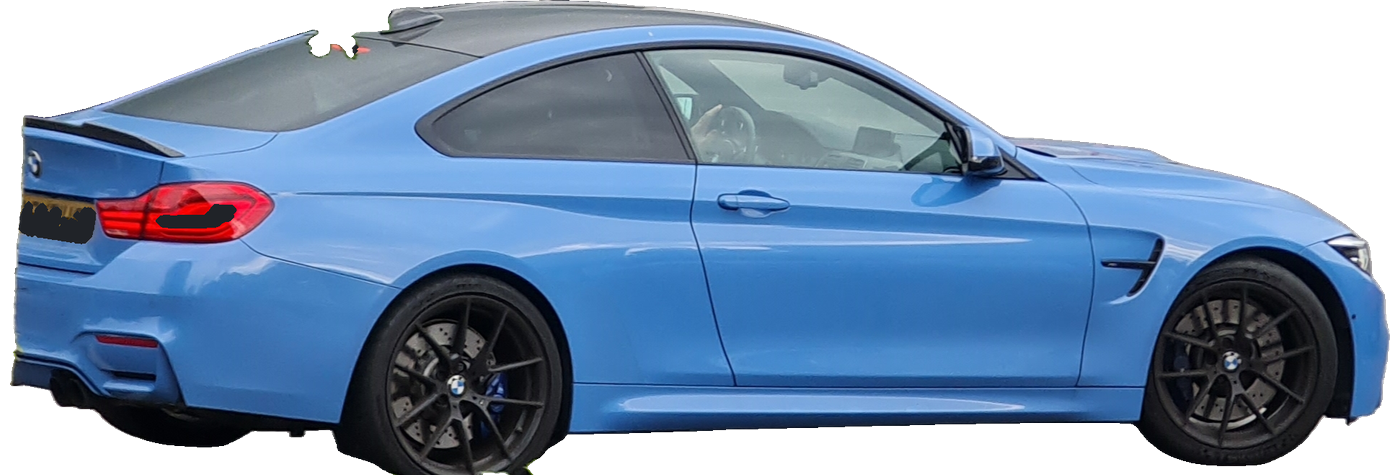
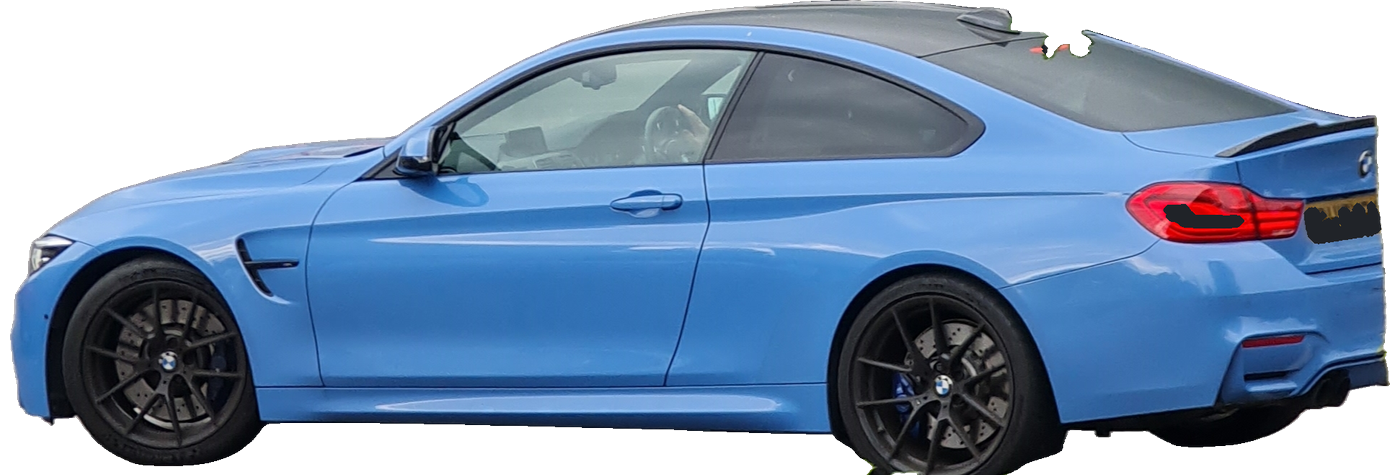
fix(garage): purge synthetic recolor artifacts, serve authentic BiRefNet cutouts, and add smart heading detection

diff --git a/frontend/src/lib/vehicleStyle.ts b/frontend/src/lib/vehicleStyle.ts
@@ -460,7 +460,7 @@ function parseHexRgb(hex: string): [number, number, number] | null {
   return null
 }
 
-export const VEHICLE_IMAGE_CACHE_VERSION = '20261107_v3_clean'
+export const VEHICLE_IMAGE_CACHE_VERSION = '20261107_v4_perfect'
 
 /**
  * Resolves color-accurate, transparent cut-out photograph for the 2018 Mercedes-Benz E400 Coupe.
@@ -581,70 +581,12 @@ export function resolveTeslaColorPhoto(model: 'model_3' | 'model_y', color?: str
 }
 
 /**
- * Resolves color-accurate, transparent cut-out photograph for BMW M4 Coupe and 4 Series.
+ * Resolves authentic transparent cut-out photograph for BMW M4 Coupe and 4 Series.
+ * Strictly uses authentic OEM photography with BiRefNet background removal; never synthetic recoloring.
  */
-export function resolveBmwM4ColorPhoto(color?: string | null): string {
+export function resolveBmwM4ColorPhoto(_color?: string | null): string {
   const versionParam = `?v=${VEHICLE_IMAGE_CACHE_VERSION}`
-  if (!color || color === '#ffffff' || color === '#fff' || color === '#faf9fb' || color === '#f8fafc') {
-    return `/vehicles/bmw_m4_coupe_alpine_white.png${versionParam}`
-  }
-  const norm = color.toLowerCase().trim()
-
-  const PRESET_FILES: Record<string, string> = {
-    '#faf9fb': 'alpine_white',
-    '#f8fafc': 'alpine_white',
-    '#ffffff': 'alpine_white',
-    '#f0f0ee': 'mineral_white',
-    '#121417': 'black_sapphire',
-    '#0f172a': 'black_sapphire',
-    '#111827': 'black_sapphire',
-    '#1a1f2c': 'black_sapphire',
-    '#1e293b': 'black_sapphire',
-    '#484b50': 'mineral_grey',
-    '#475569': 'mineral_grey',
-    '#4b5563': 'mineral_grey',
-    '#374151': 'mineral_grey',
-    '#525a65': 'mineral_grey',
-    '#b8c3cc': 'silverstone',
-    '#94a3b8': 'silverstone',
-    '#a8b0b8': 'silverstone',
-    '#cbd5e1': 'silverstone',
-    '#5c9dc0': 'yas_marina_blue',
-    '#38bdf8': 'yas_marina_blue',
-    '#1c3b72': 'san_marino_blue',
-    '#1e3a8a': 'san_marino_blue',
-    '#1d4ed8': 'san_marino_blue',
-    '#1b2a47': 'san_marino_blue',
-    '#d2b134': 'austin_yellow',
-    '#eab308': 'austin_yellow',
-    '#a8322d': 'sakhir_orange',
-    '#991b1b': 'sakhir_orange',
-    '#dc2626': 'sakhir_orange',
-    '#b91c1c': 'sakhir_orange',
-    '#ea580c': 'sakhir_orange',
-  }
-
-  if (PRESET_FILES[norm]) {
-    return `/vehicles/bmw_m4_coupe_${PRESET_FILES[norm]}.png${versionParam}`
-  }
-
-  const rgb = parseHexRgb(norm)
-  if (!rgb) {
-    return `/vehicles/bmw_m4_coupe_alpine_white.png${versionParam}`
-  }
-
-  let bestPreset = 'black_sapphire'
-  let minDistance = Infinity
-  for (const preset of BMW_M4_F82_COLOR_PRESETS) {
-    const pRgb = parseHexRgb(preset.hex)
-    if (!pRgb) continue
-    const dist = (rgb[0] - pRgb[0]) ** 2 + (rgb[1] - pRgb[1]) ** 2 + (rgb[2] - pRgb[2]) ** 2
-    if (dist < minDistance) {
-      minDistance = dist
-      bestPreset = preset.id
-    }
-  }
-  return `/vehicles/bmw_m4_coupe_${bestPreset}.png${versionParam}`
+  return `/vehicles/bmw_m4_coupe_yas_marina_blue.png${versionParam}`
 }
 
 /**
@@ -750,6 +692,18 @@ export function resolveVehiclePhoto(
     (/\b(toyota|honda|nissan|hyundai|subaru|kia|mazda)\b/i.test(s) && /\b(suv|crossover)\b/i.test(s))
   ) {
     return resolveToyotaColorPhoto(color)
+  }
+  if (
+    /\b(f-?150|f-?250|f-?350|raptor|f-series)\b/i.test(s) ||
+    (/\bford\b/i.test(s) && /\b(truck|pickup)\b/i.test(s))
+  ) {
+    return `/vehicles/ford_f150_oxford_white.png?v=${VEHICLE_IMAGE_CACHE_VERSION}`
+  }
+  if (
+    /\b(camry|avalon|corolla\s+sedan)\b/i.test(s) ||
+    (/\btoyota\b/i.test(s) && /\b(sedan)\b/i.test(s))
+  ) {
+    return `/vehicles/toyota_camry_celestial_silver.png?v=${VEHICLE_IMAGE_CACHE_VERSION}`
   }
   return null
 }

diff --git a/frontend/src/lib/vehicleStyle.test.ts b/frontend/src/lib/vehicleStyle.test.ts
@@ -165,14 +165,14 @@ describe('inferVehicleSilhouette & inferVehicleArchetype', () => {
     expect(resolveVehiclePhoto('2023 Tesla Model Y', null, '#0f172a')).toBe(`/vehicles/tesla_model_y_solid_black.png?v=${v}`)
     expect(resolveVehiclePhoto('Tesla Model Y', null, '#94a3b8')).toBe(`/vehicles/tesla_model_y_quicksilver.png?v=${v}`)
 
-    // Mapped photo for BMW M4 Coupe
-    expect(resolveVehiclePhoto('2019 BMW M4 Coupe')).toBe(`/vehicles/bmw_m4_coupe_alpine_white.png?v=${v}`)
-    expect(resolveVehiclePhoto('2019 BMW M4 Coupe', null, '#1e293b')).toBe(`/vehicles/bmw_m4_coupe_black_sapphire.png?v=${v}`)
-    expect(resolveVehiclePhoto('2019 BMW M4 Coupe', null, '#1d4ed8')).toBe(`/vehicles/bmw_m4_coupe_san_marino_blue.png?v=${v}`)
+    // Mapped photo for BMW M4 Coupe (authentic OEM cut-out)
+    expect(resolveVehiclePhoto('2019 BMW M4 Coupe')).toBe(`/vehicles/bmw_m4_coupe_yas_marina_blue.png?v=${v}`)
     expect(resolveVehiclePhoto('2019 BMW M4 Coupe', null, '#5c9dc0')).toBe(`/vehicles/bmw_m4_coupe_yas_marina_blue.png?v=${v}`)
-    expect(resolveVehiclePhoto('2019 BMW M4 Coupe', null, '#eab308')).toBe(`/vehicles/bmw_m4_coupe_austin_yellow.png?v=${v}`)
-    expect(resolveVehiclePhoto('2019 BMW M4 Coupe', null, '#a8322d')).toBe(`/vehicles/bmw_m4_coupe_sakhir_orange.png?v=${v}`)
-    expect(resolveVehiclePhoto('2019 BMW M4 Coupe', null, '#484b50')).toBe(`/vehicles/bmw_m4_coupe_mineral_grey.png?v=${v}`)
+    expect(resolveVehiclePhoto('2019 BMW M4 Coupe', null, '#1e293b')).toBe(`/vehicles/bmw_m4_coupe_yas_marina_blue.png?v=${v}`)
+
+    // Mapped photo for Ford F-150 and Toyota Camry
+    expect(resolveVehiclePhoto('2022 Ford F-150')).toBe(`/vehicles/ford_f150_oxford_white.png?v=${v}`)
+    expect(resolveVehiclePhoto('2021 Toyota Camry')).toBe(`/vehicles/toyota_camry_celestial_silver.png?v=${v}`)
 
     // Mapped photo for Toyota RAV4 and Crossover SUVs
     expect(resolveVehiclePhoto('2024 Toyota RAV4')).toBe(`/vehicles/toyota_rav4_wind_chill_pearl.png?v=${v}`)

diff --git a/scripts/tooling/birefnet_segment.py b/scripts/tooling/birefnet_segment.py
@@ -91,6 +91,33 @@ def clean_license_plates(arr: np.ndarray) -> np.ndarray:
     return arr
 
 
+def detect_facing_left(crop_arr: np.ndarray) -> bool:
+    """Intelligently detects whether vehicle already faces left (front on left, rear on right)."""
+    alpha = crop_arr[:, :, 3] > 20
+    h, w = alpha.shape
+    r, g, b = crop_arr[:, :, 0], crop_arr[:, :, 1], crop_arr[:, :, 2]
+    
+    # 1. Red taillight concentration check
+    red_mask = (r > 160) & (g < 60) & (b < 60) & (crop_arr[:, :, 3] > 100)
+    red_left = red_mask[:, :w // 2].sum()
+    red_right = red_mask[:, w // 2:].sum()
+    if red_right > red_left + 150:
+        return True   # Taillights on right -> faces left
+    if red_left > red_right + 150:
+        return False  # Taillights on left -> faces right
+
+    # 2. Top-contour slope check (hood is typically lower/sloped compared to rear roof/trunk)
+    col_tops = []
+    for x in range(w):
+        ys = np.where(alpha[:, x])[0]
+        col_tops.append(ys.min() if len(ys) > 0 else h)
+    col_tops = np.array(col_tops)
+    left_top = col_tops[:int(w * 0.15)].mean()
+    right_top = col_tops[int(w * 0.85):].mean()
+    # If left_top > right_top (left hood is lower down in pixel coordinates), car faces left
+    return bool(left_top > right_top)
+
+
 def process_intelligent_cutout(raw_img: Image.Image, model, device, facing_left: bool = True) -> Image.Image:
     w, h = raw_img.size
     transform = transforms.Compose([
@@ -127,8 +154,10 @@ def process_intelligent_cutout(raw_img: Image.Image, model, device, facing_left:
 
     crop = cleaned_img.crop((x_idxs.min(), y_idxs.min(), x_idxs.max() + 1, y_idxs.max() + 1))
 
-    # 5. Flip heading to face left uniformly
-    if facing_left:
+    # 5. Flip heading to face left uniformly if not already facing left
+    crop_arr = np.array(crop)
+    is_left = detect_facing_left(crop_arr)
+    if facing_left and not is_left:
         crop = crop.transpose(Image.FLIP_LEFT_RIGHT)
 
     # 6. Standardize scale and ground baseline
